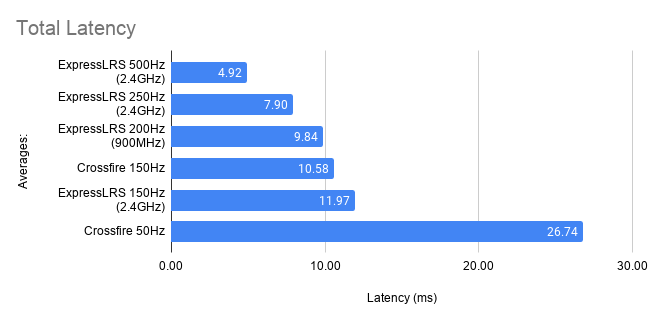
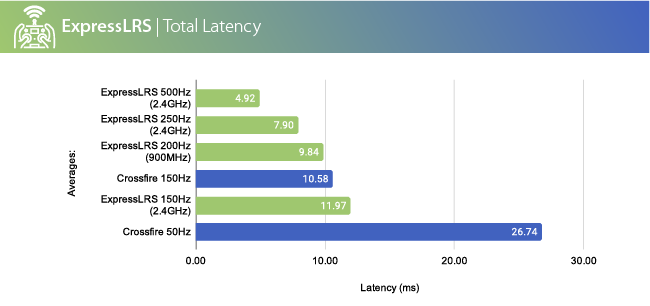
Some new images & readme updates (#216)
* Update Average Total Latency.png

* Update README.md

relative img path

* Create faq.png

* Create footer.png

* Create community.png

* Create quick-start.png

* Create other.png

* Create hardware.png

* Update README.md

* Update README.md

* Update README.md

scroll to id

* Update README.md

correct character

diff --git a/README.md b/README.md
@@ -1,4 +1,4 @@
-![2.4GHz Hardware](img/banner.png)
+![Banner](img/banner.png)
 
 ## Need help? Confused? Join the Community!
  * [RCGroups Discussion](https://www.rcgroups.com/forums/showthread.php?3437865-ExpressLRS-DIY-LoRa-based-race-optimized-RC-link-system)
@@ -16,7 +16,7 @@ ExpressLRS can be flashed into existing **Frsky R9M hardware (RX and TX)** or **
 
 At `900 MHz` a maximum of `200 Hz` packet rate is supported. At `2.4 GHz` a blistering `500 Hz` is currently supported with a custom openTX binary with plans to extend this to `1000 Hz` once OpenTX support is added. This makes ExpressLRS one of the fastest RC links available while still offering long-range preformance. 
 
-![LatencyChart](https://raw.githubusercontent.com/AlessandroAU/ExpressLRS/master-dev/img/Average%20Total%20Latency.png)
+![LatencyChart](img/Average%20Total%20Latency.png)
 
 ExpressLRS aims to achieve the best possible link preformance in both speed/latency and range. However, due to the optimized packet structure only basic telemetry is provided. If you want MavLink this project is not for you. ExpressLRS uses a compressed packet structure which priorities the first 4 control channels, this allows it to achieve better raw performance than other commercial solutions. ExpressLRS is also very affordable, a TX module can be built for $30 and receivers for $15-20. Likewise, new/second hand Frsky R9M gear is compatible and can be acquired inexpensively.
 
@@ -32,7 +32,7 @@ Links:
 - [20x20 2.4GHz RX](https://github.com/AlessandroAU/ExpressLRS/tree/master-dev/PCB/20x20_RX_SX1280) Convenient Stack Mounted DIY 2.4GHz RX
 
 ### 868/915MHz DIY Receiver and Transmitter
-![2.4GHz Hardware](img/900Mhardware.jpg)
+![868/915MHz Hardware](img/900Mhardware.jpg)
 
 Links:
 - [Mini 900MHz RX](https://github.com/AlessandroAU/ExpressLRS/tree/master-dev/PCB/Mini_Rx_v0.1) Currently Smallest DIY 868/915MHz RX
@@ -73,3 +73,5 @@ STLs for printing your own enclosure are available in the [STL folder](https://g
 
 ### Legal Stuff
 The use and operation of this type of device may require a license and some countries may forbid its use. It is entirely up to the end user to ensure compliance with local regulations. This is experimental software/hardware and there is no guarantee of stability or reliability. USE AT YOUR OWN RISK 
+
+[![Banner](img/footer.png)](https://github.com/AlessandroAU/ExpressLRS/wiki#community)
